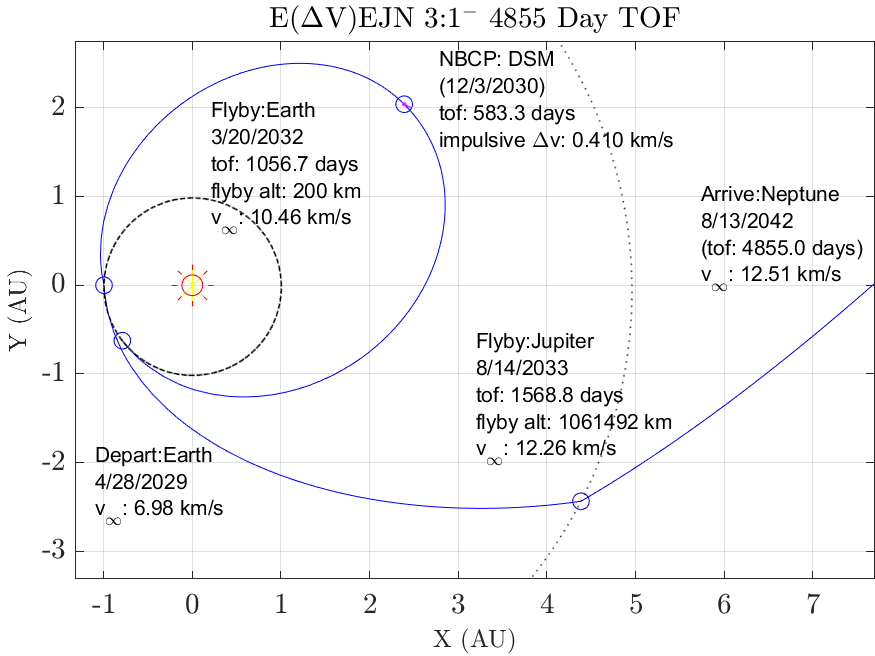
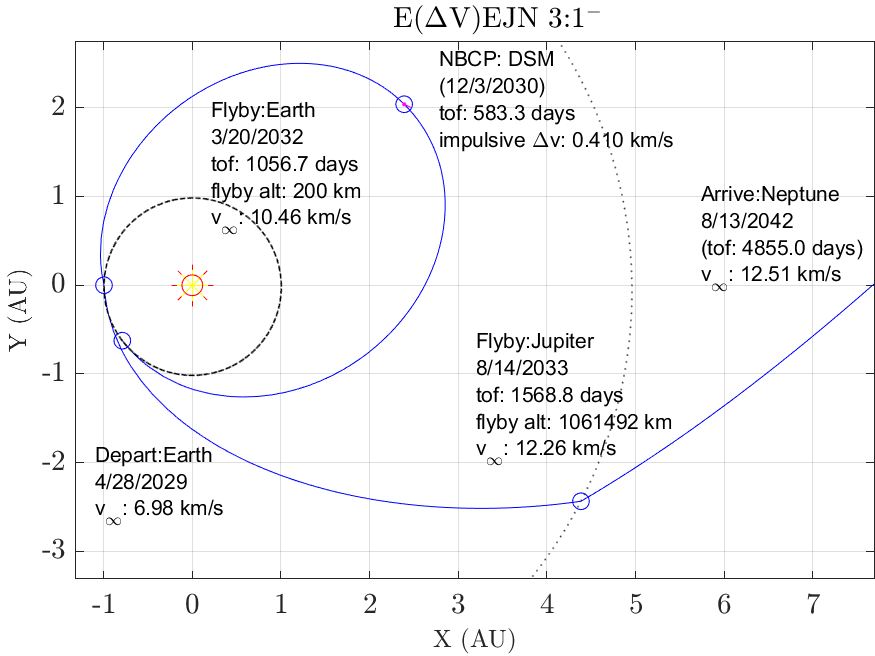
fixed figure 3:1 title

Changed region(s): [[0.3086, 0.0, 0.7714, 0.061]]

diff --git a/tex/tex_dsmtheory/dsmtheory.tex b/tex/tex_dsmtheory/dsmtheory.tex
@@ -26,7 +26,7 @@ The deep space maneuver (DSM) and subsequent Earth launch characteristics are ca
 %
 \begin{figure}[htb]
 	\centering\includegraphics[width=3.6in]{./Figures/dsmmatlab}
-	\caption{Example of a computed 3:$1^{-} \Delta$VEGA trajectory with a final aphelion radius roughly that of Saturn's semi-major axis. The launch $V_\infty$ is 6.97 km/s and the required DSM $\Delta V$ is 0.39 km/s. The EGA flyby altitude was constrained to 200 km, which yielded the highest post flyby energy.}
+	\caption{Example of a computed 3:$1^{-} \Delta V$EGA trajectory with a final aphelion radius roughly that of Saturn's semi-major axis. The launch $V_\infty$ is 6.97 km/s and the required DSM $\Delta V$ is 0.39 km/s. The EGA flyby altitude was constrained to 200 km, which yielded the highest post flyby energy.}
 	\label{fig:dsmmatlab}
 \end{figure}
 %
